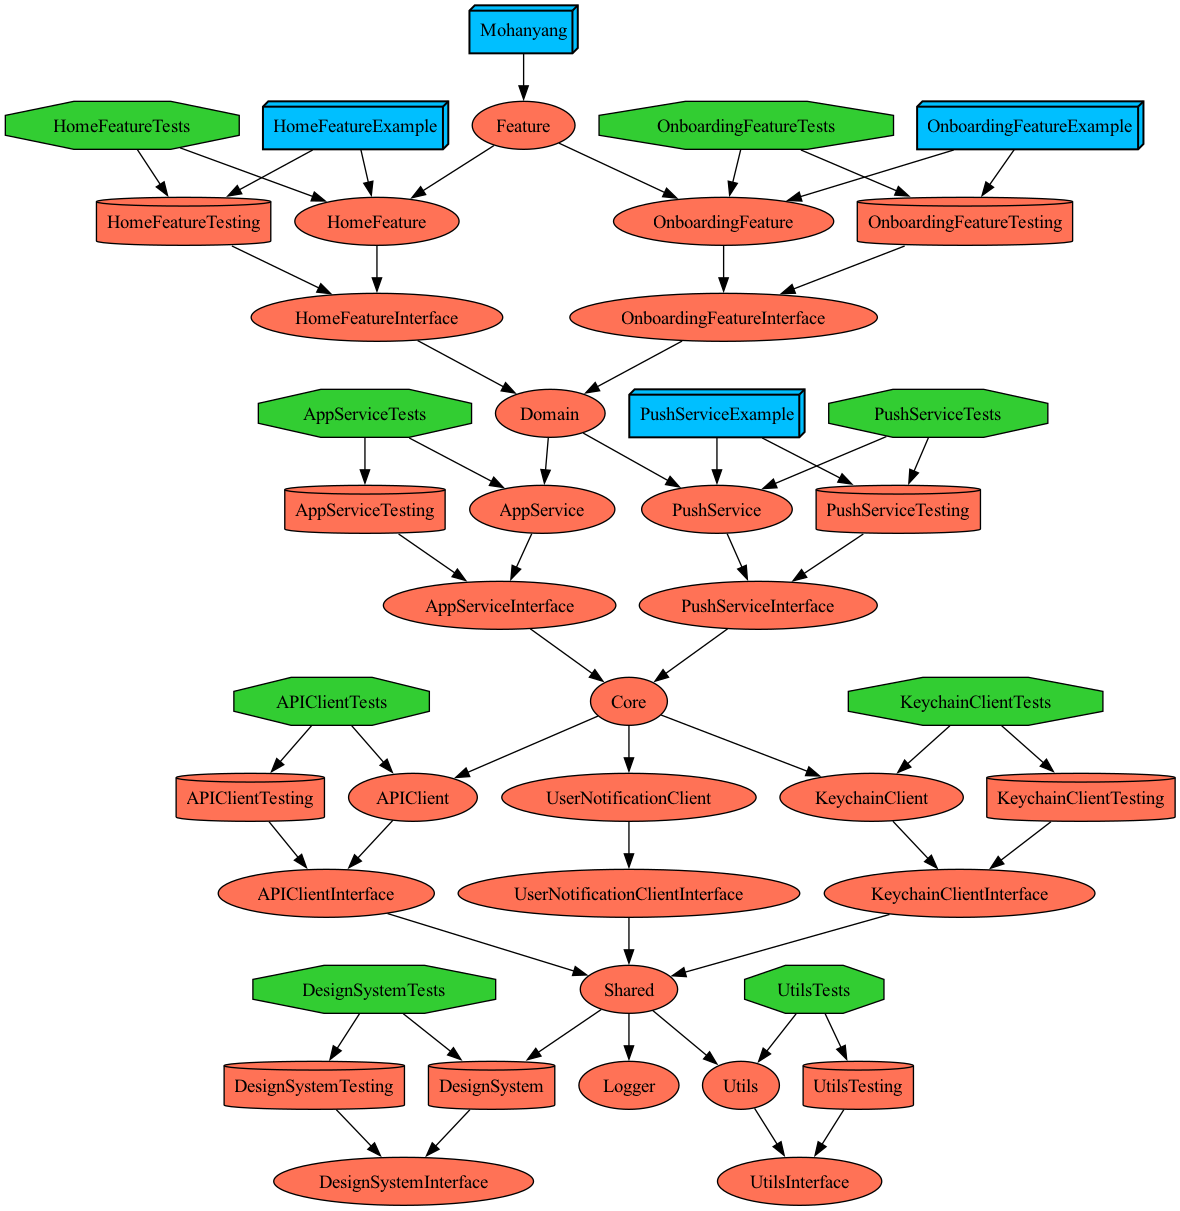
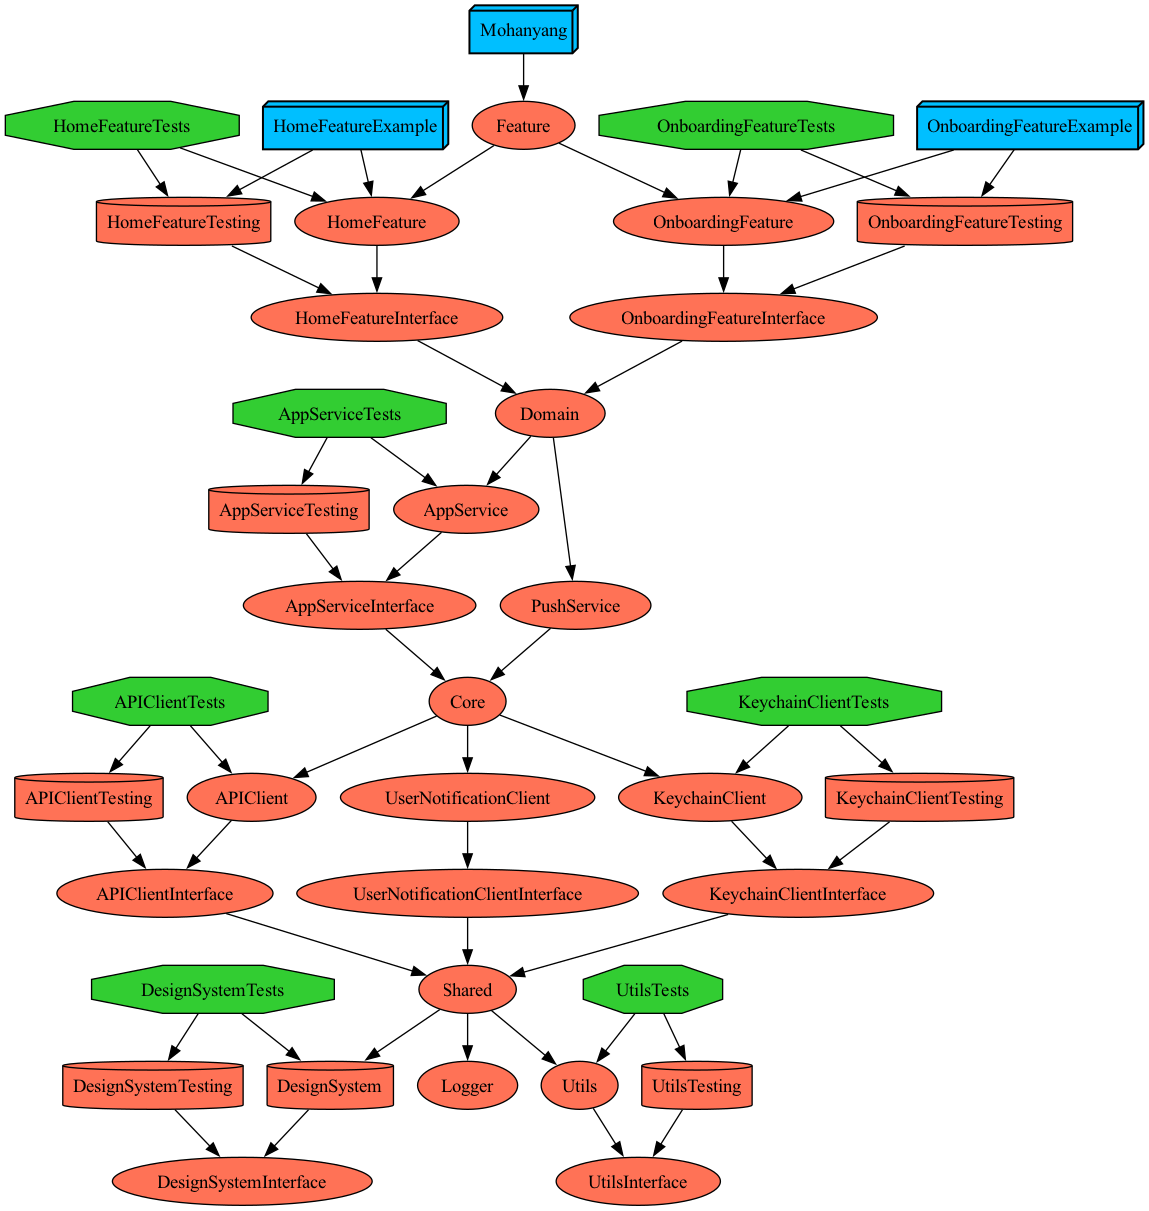
CHORE: 그래프 업데이트

diff --git a/Projects/Domain/PushService/Project.swift b/Projects/Domain/PushService/Project.swift
@@ -12,7 +12,7 @@ let project: Project = .makeTMABasedProject(
     .sources
   ],
   dependencies: [
-    .interface: [
+    .sources: [
       .dependency(rootModule: Core.self)
     ]
   ]
